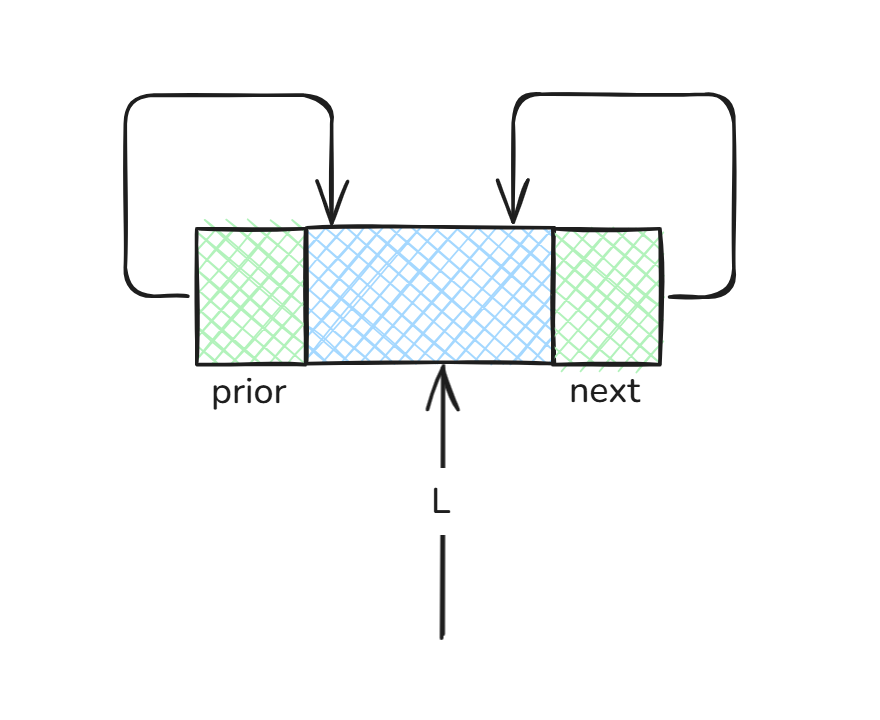
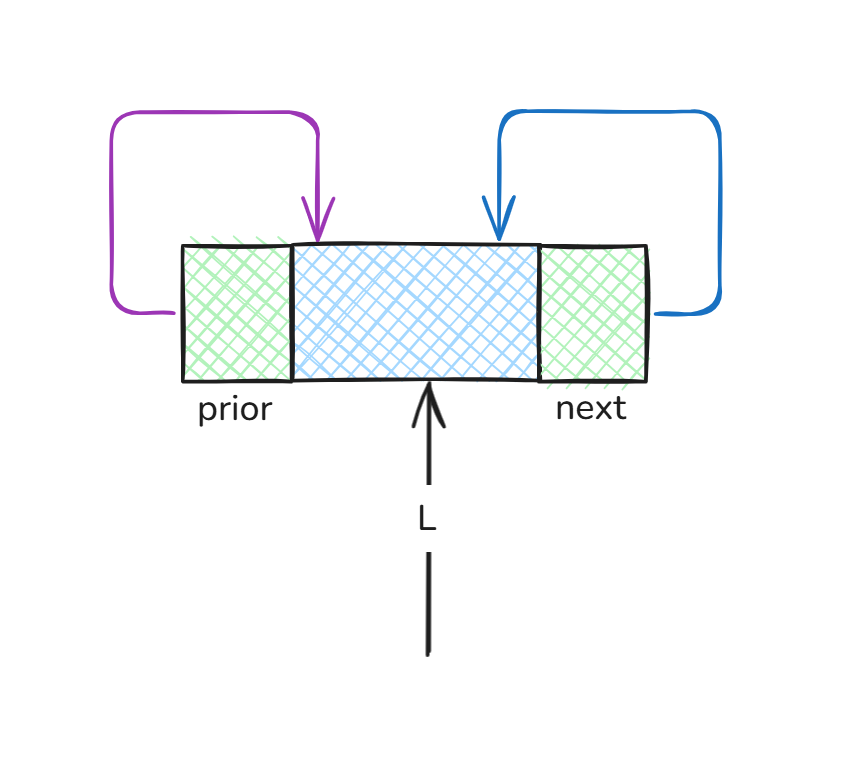
测试上传

Changed region(s): [[0.1206, 0.1222, 0.8445, 0.8861]]

diff --git a/vite-press/docs/articles/server/c/23.DulLinkedList.md b/vite-press/docs/articles/server/c/23.DulLinkedList.md
@@ -22,3 +22,4 @@ inHomePost: true
 单链表的链式存储结构的结点中只有一个指向直接后继的指针域,由此,从某个结点触发只能顺着指针向后寻找其他结点;
 
 ## 双向链表的存储结构
+![](https://raw.githubusercontent.com/matrix-johnjohn/kimo-docs/refs/heads/main/images/articles/server/c/data-struct/dullinkedlist/01dullinkedlist.png)
